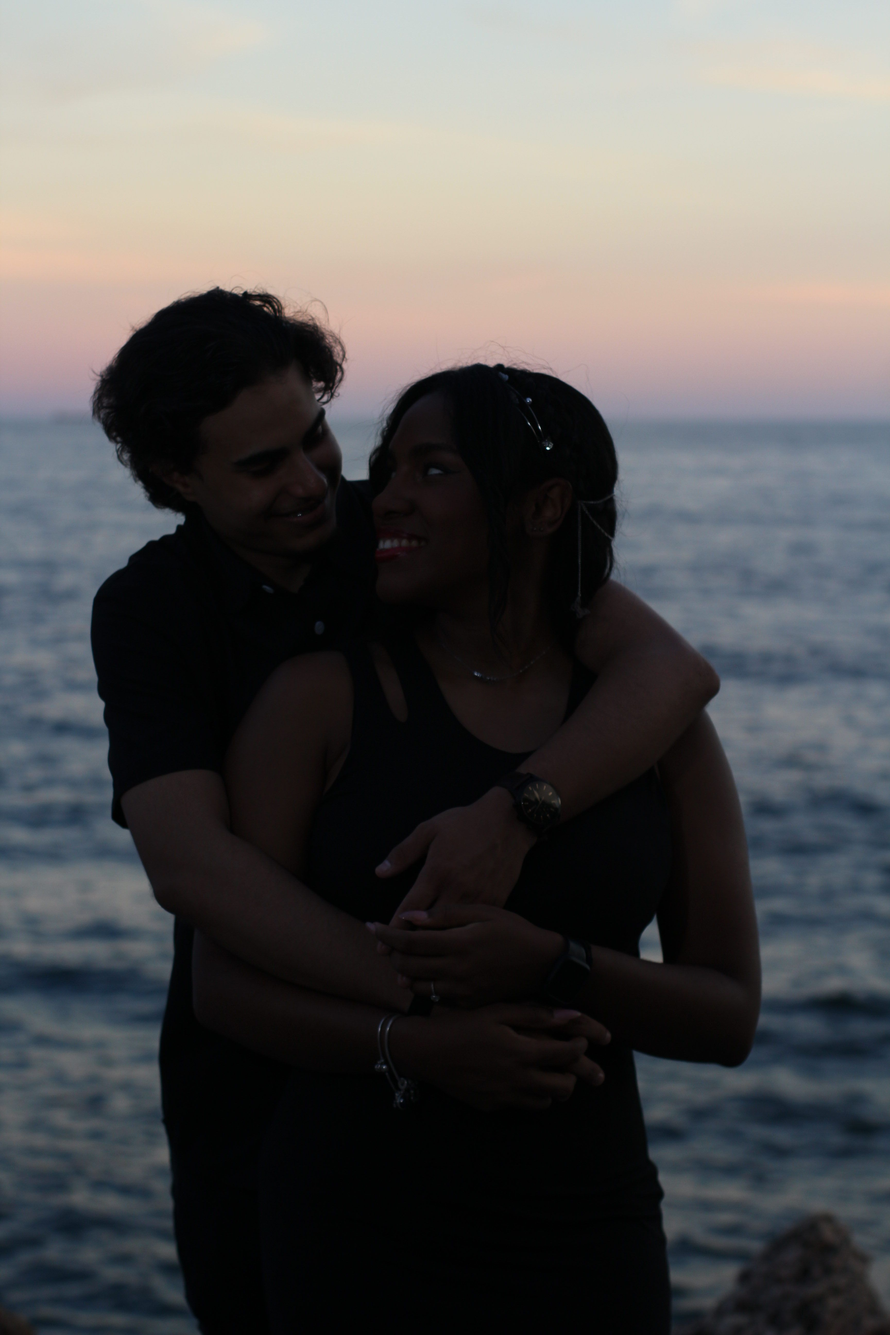
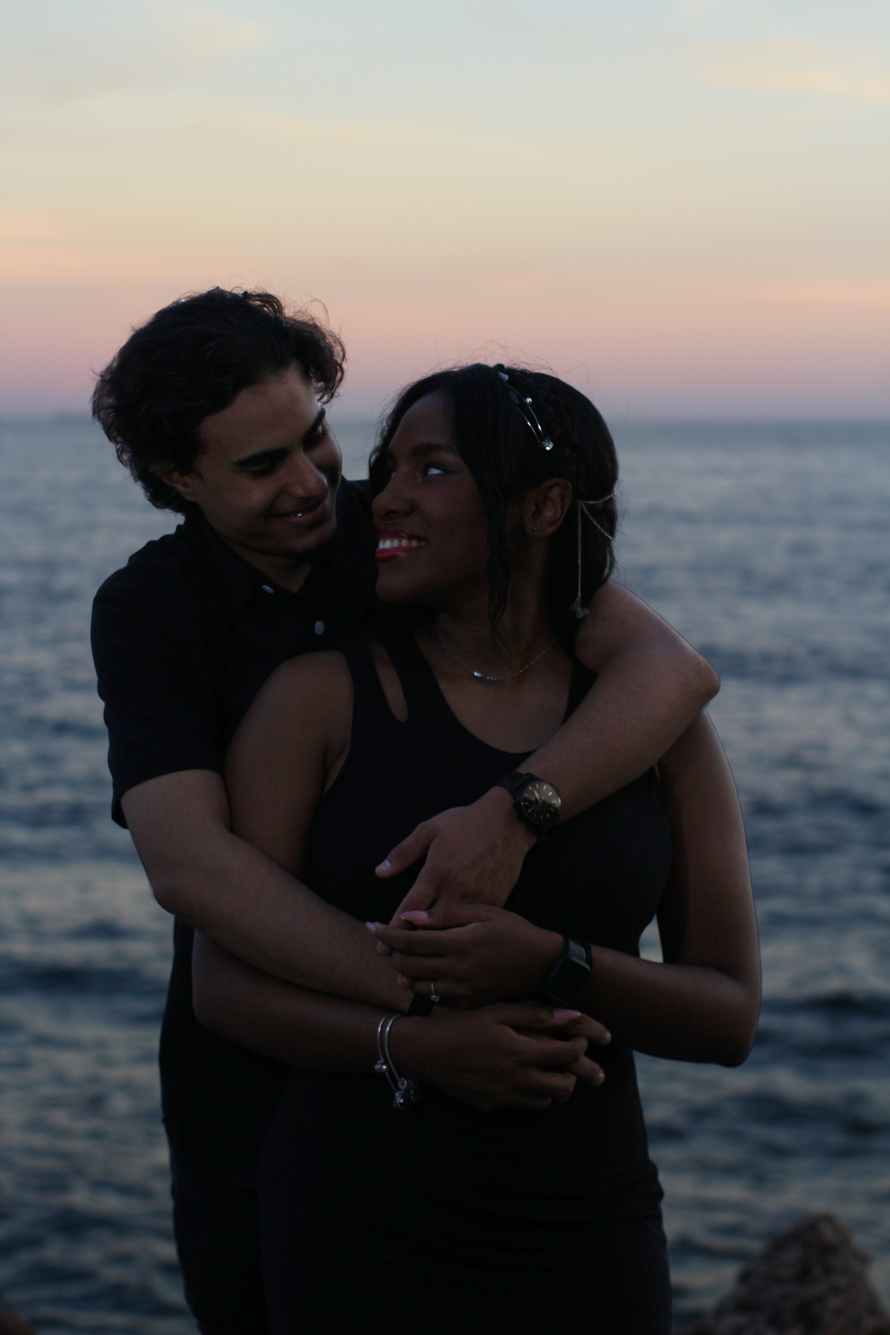
new hero photo, more brightness

diff --git a/index.html b/index.html
@@ -145,7 +145,7 @@
 					<div class="element col-md-6 col-xl-4" data-animation-direction="from-right"
 						data-animation-delay="400">
 						<div class="image">
-							<img src="./images/hero/front-bg.jpg" alt="Los novios" style="filter: brightness(2.5);"/>
+							<img src="./images/hero/front-bg.jpg" alt="Los novios" />
 							<div class="hover-info neela-style">
 								<div class="content">
 									<h3>Angela Tejeda<br> & <br>Jairo Melo<small>Los Novios</small></h3>
